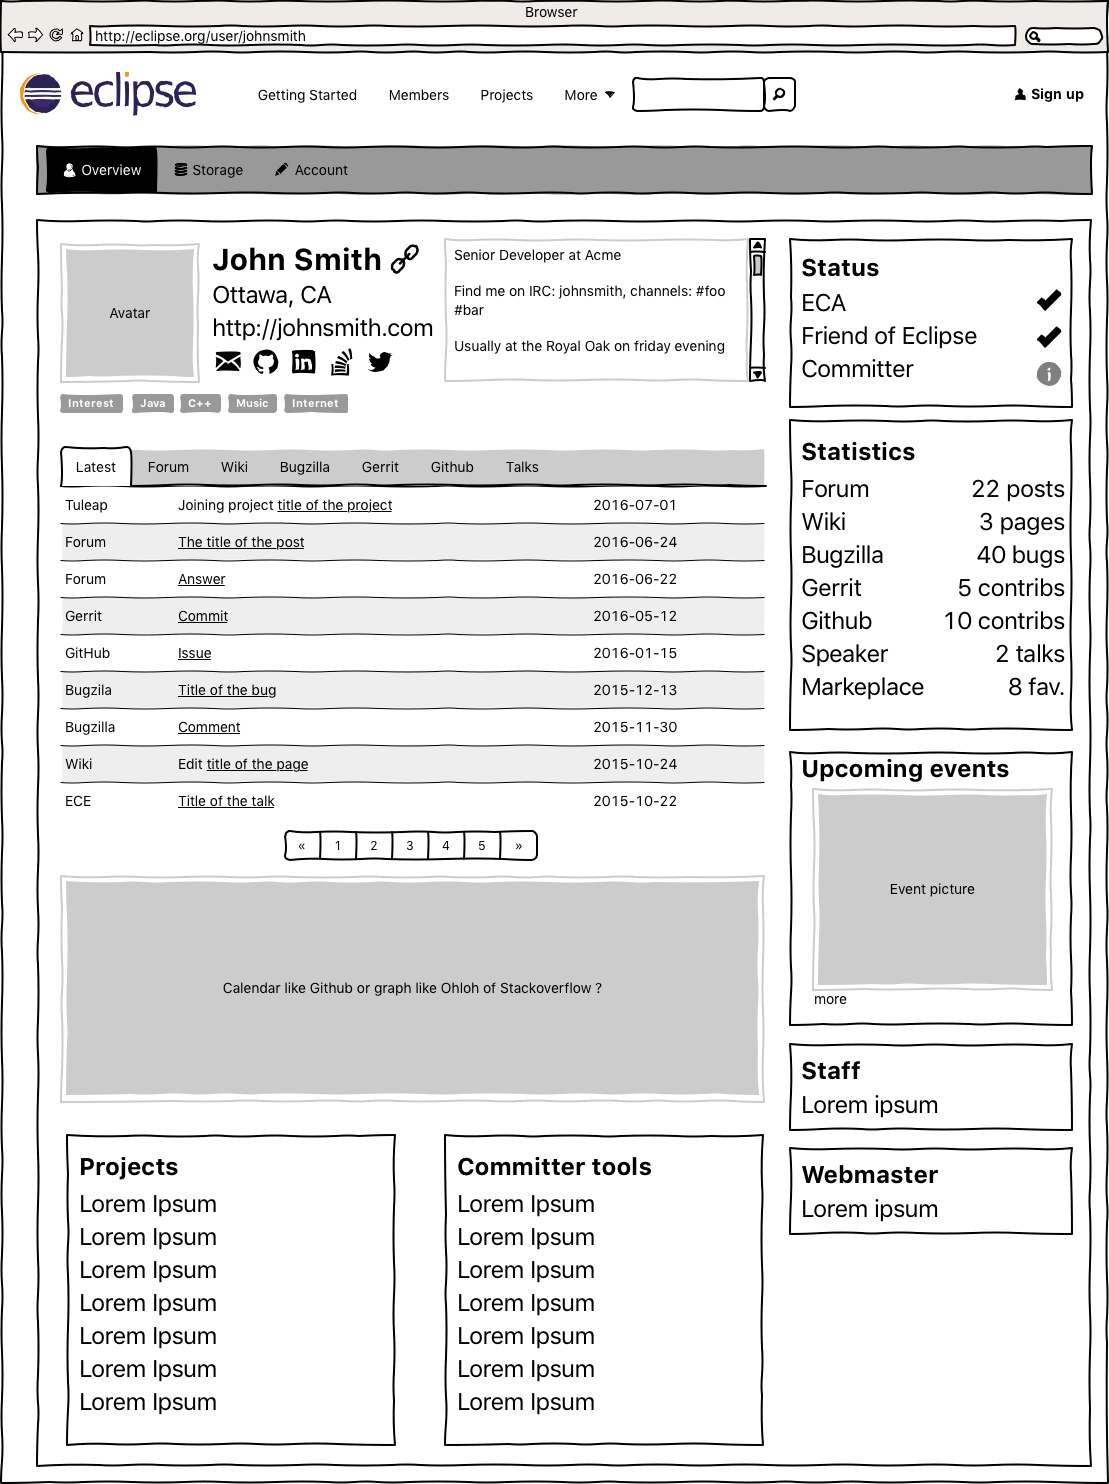
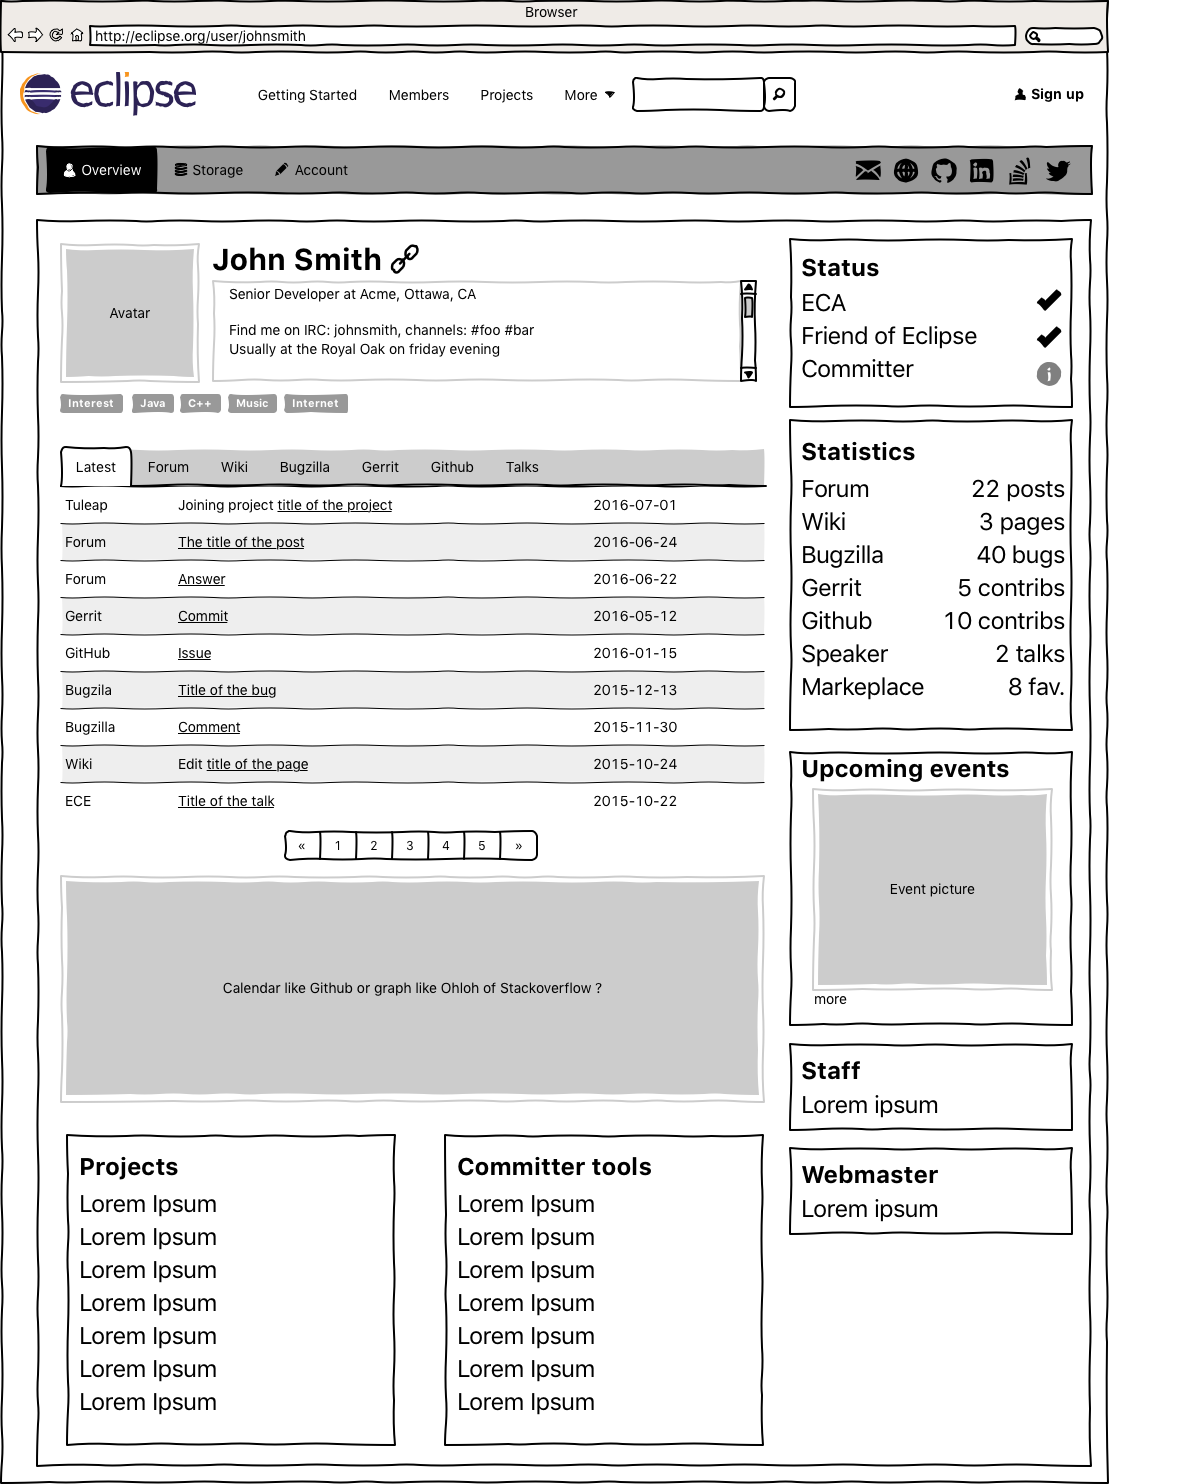
User info and USS updates
USS:
 - Splitting the view in two tabs
 - one tab for data
 - one tab for applications

User info:
 - less room for the "bio"
 - moving the social icons in the menu, top right.

diff --git a/user-profile_files/resources/story.js b/user-profile_files/resources/story.js
@@ -2,7 +2,7 @@ var story = {
  "pages": [
   {
    "image": "overview.png",
-   "width": 1109,
+   "width": 1204,
    "links": [
     {
      "rect": [
@@ -20,7 +20,7 @@ var story = {
       364,
       193
      ],
-     "page": 2
+     "page": 3
     },
     {
      "rect": [
@@ -29,15 +29,15 @@ var story = {
       1093,
       104
      ],
-     "page": 6
+     "page": 7
     }
    ],
    "title": "overview",
    "height": 1484
   },
   {
-   "image": "uss.png",
-   "width": 1132,
+   "image": "uss-data.png",
+   "width": 1204,
    "links": [
     {
      "rect": [
@@ -55,7 +55,7 @@ var story = {
       364,
       193
      ],
-     "page": 2
+     "page": 3
     },
     {
      "rect": [
@@ -64,11 +64,64 @@ var story = {
       1093,
       104
      ],
-     "page": 6
+     "page": 7
+    },
+    {
+     "rect": [
+      141,
+      451,
+      272,
+      492
+     ],
+     "page": 2
     }
    ],
-   "title": "uss",
-   "height": 1764
+   "title": "uss-data",
+   "height": 1476
+  },
+  {
+   "image": "uss-apps.png",
+   "width": 1204,
+   "links": [
+    {
+     "rect": [
+      46,
+      147,
+      157,
+      193
+     ],
+     "page": 0
+    },
+    {
+     "rect": [
+      259,
+      147,
+      364,
+      193
+     ],
+     "page": 3
+    },
+    {
+     "rect": [
+      1004,
+      85,
+      1093,
+      104
+     ],
+     "page": 7
+    },
+    {
+     "rect": [
+      60,
+      451,
+      141,
+      492
+     ],
+     "page": 1
+    }
+   ],
+   "title": "uss-apps",
+   "height": 1044
   },
   {
    "image": "account-publicprofile.png",
@@ -99,7 +152,7 @@ var story = {
       277,
       258
      ],
-     "page": 3
+     "page": 4
     },
     {
      "rect": [
@@ -108,7 +161,7 @@ var story = {
       414,
       258
      ],
-     "page": 5
+     "page": 6
     },
     {
      "rect": [
@@ -117,7 +170,7 @@ var story = {
       492,
       258
      ],
-     "page": 4
+     "page": 5
     },
     {
      "rect": [
@@ -126,7 +179,7 @@ var story = {
       1093,
       104
      ],
-     "page": 6
+     "page": 7
     }
    ],
    "title": "account-publicprofile",
@@ -161,7 +214,7 @@ var story = {
       172,
       258
      ],
-     "page": 2
+     "page": 3
     },
     {
      "rect": [
@@ -170,7 +223,7 @@ var story = {
       410,
       258
      ],
-     "page": 5
+     "page": 6
     },
     {
      "rect": [
@@ -179,7 +232,7 @@ var story = {
       488,
       258
      ],
-     "page": 4
+     "page": 5
     },
     {
      "rect": [
@@ -188,7 +241,7 @@ var story = {
       1093,
       104
      ],
-     "page": 6
+     "page": 7
     }
    ],
    "title": "account-settings",
@@ -223,7 +276,7 @@ var story = {
       172,
       258
      ],
-     "page": 2
+     "page": 3
     },
     {
      "rect": [
@@ -232,7 +285,7 @@ var story = {
       277,
       258
      ],
-     "page": 3
+     "page": 4
     },
     {
      "rect": [
@@ -241,7 +294,7 @@ var story = {
       410,
       258
      ],
-     "page": 5
+     "page": 6
     },
     {
      "rect": [
@@ -250,7 +303,7 @@ var story = {
       1093,
       104
      ],
-     "page": 6
+     "page": 7
     }
    ],
    "title": "account-eca",
@@ -285,7 +338,7 @@ var story = {
       172,
       258
      ],
-     "page": 2
+     "page": 3
     },
     {
      "rect": [
@@ -294,7 +347,7 @@ var story = {
       277,
       258
      ],
-     "page": 3
+     "page": 4
     },
     {
      "rect": [
@@ -303,7 +356,7 @@ var story = {
       488,
       258
      ],
-     "page": 4
+     "page": 5
     },
     {
      "rect": [
@@ -312,7 +365,7 @@ var story = {
       1093,
       104
      ],
-     "page": 6
+     "page": 7
     }
    ],
    "title": "account-notifications",
@@ -329,7 +382,7 @@ var story = {
       673,
       680
      ],
-     "page": 7
+     "page": 8
     },
     {
      "rect": [
@@ -355,7 +408,7 @@ var story = {
       1093,
       104
      ],
-     "page": 6
+     "page": 7
     },
     {
      "rect": [
@@ -364,7 +417,7 @@ var story = {
       967,
       1065
      ],
-     "page": 2
+     "page": 3
     }
    ],
    "title": "create-an-account",
